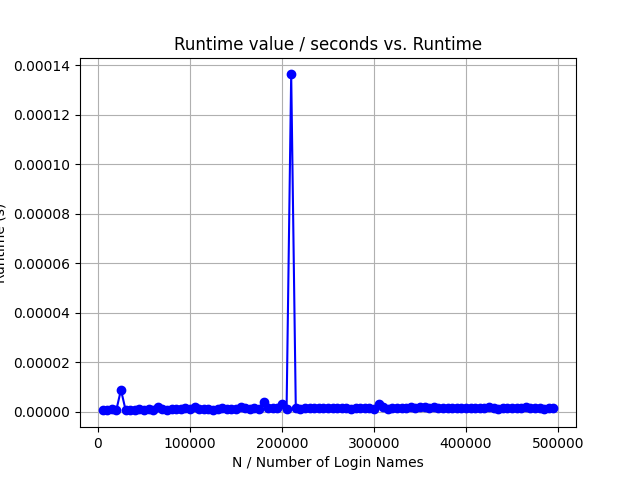
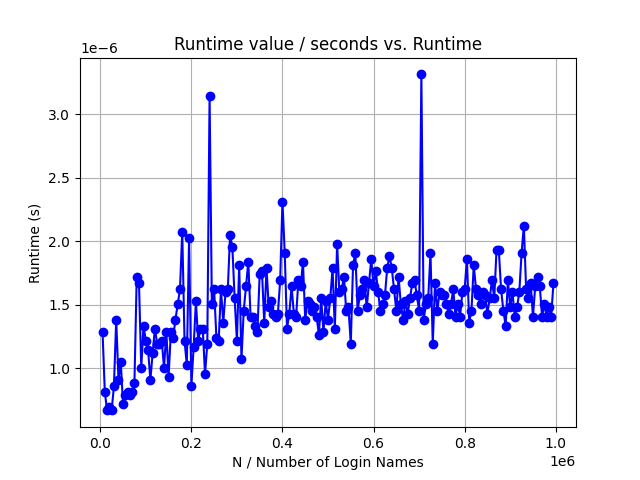
chore: update dataset constant and calculate runtime over a higher average

diff --git a/plotter/plot_binary_search.py b/plotter/plot_binary_search.py
@@ -21,7 +21,7 @@ for i in range(DATASET_STEP, DATASET_LIMIT, DATASET_STEP):
             raise Exception("Dataset is empty.")
         
         times = []
-        for _ in range(10):
+        for _ in range(100):
             target = dataset[random.randint(0, len(dataset) - 1)]
             start_time = time.time()
             result = binary_search(dataset, target)

diff --git a/plotter/plot_linear_search.py b/plotter/plot_linear_search.py
@@ -21,7 +21,7 @@ for i in range(DATASET_STEP, DATASET_LIMIT, DATASET_STEP):
             raise Exception("Dataset is empty.")
         
         times = []
-        for _ in range(10):
+        for _ in range(100):
             target = dataset[random.randint(0, len(dataset) - 1)]
             start_time = time.time()
             result = linear_search(dataset, target)

diff --git a/dataset/dataset_constants.py b/dataset/dataset_constants.py
@@ -1,2 +1,2 @@
-DATASET_LIMIT = 500_000
+DATASET_LIMIT = 1_000_000
 DATASET_STEP = 5_000
